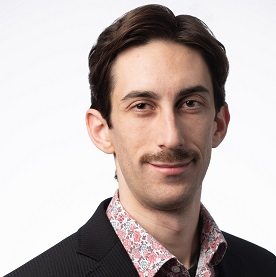
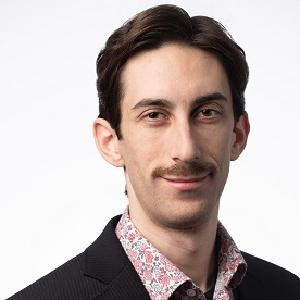
main page, cta, and other things

diff --git a/themes/hugoplate/layouts/index.html b/themes/hugoplate/layouts/index.html
@@ -94,7 +94,7 @@
                     <div class="swiper-slide">
                       <div
                         class="bg-theme-light dark:bg-darkmode-theme-light rounded-lg px-7 py-10">
-                        <div class="text-dark dark:text-white">
+                        {{/*  <div class="text-dark dark:text-white">
                           <svg
                             width="33"
                             height="20"
@@ -108,19 +108,19 @@
                         </div>
                         <blockquote class="mt-8">
                           {{ .content | markdownify }}
-                        </blockquote>
-                        <div class="mt-11 flex items-center">
+                        </blockquote>  */}}
+                        <div class="mt-7 flex items-center">
                           <div class="text-dark dark:text-white">
-                            {{ partial "image" (dict "Src" .avatar "Size" "50x50" "Class" "rounded-full" "Alt" .name) }}
+                            {{ partial "image" (dict "Src" .avatar "Class" "rounded-small" "Alt" .name) }}
                           </div>
-                          <div class="ml-4">
+                          {{/*  <div class="ml-4">
                             <h3 class="h5 font-primary font-semibold">
                               {{ .name }}
                             </h3>
                             <p class="text-dark dark:text-white">
                               {{ .designation | markdownify }}
                             </p>
-                          </div>
+                          </div>  */}}
                         </div>
                       </div>
                     </div>

diff --git a/content/english/_index.md b/content/english/_index.md
@@ -1,8 +1,8 @@
 ---
 # Banner
 banner:
-  title: "Identifying things in spectrum with AI"
-  content: "Hugoplate is a free starter template built with Hugo and TailwindCSS, providing everything you need to jumpstart your Hugo project and save valuable time."
+  title: "Identifying things in wireless spectrum with AI"
+  content: "Lets build intelligent radios together."
   image: "/images/banner.png"
   button:
     enable: true
@@ -11,41 +11,39 @@ banner:
 
 # Features
 features:
-  - title: "What's Included in Hugoplate"
+  - title: "RIA Project"
     image: "/images/service-1.png"
-    content: "Hugoplate is a comprehensive starter template that includes everything you need to get started with your Hugo project. What's Included in Hugoplate"
+    content: "The Radio Intelligence Apps open source project exists to help accelerate the development of intelligent radio technology. The RIA  project contains utlilities for synthesizing, curating, and inspecting datasets of radio signals, example workflows for training high performance machine learning models, and tools for testing them. RIA is coming soon."
     bulletpoints:
-      - "10+ Pre-build pages"
-      - "95+ Google Pagespeed Score"
-      - "Build with Hugo and TailwindCSS for easy and customizable styling"
-      - "Fully responsive on all devices"
-      - "SEO-optimized for better search engine rankings"
-      - "**Open-source and free** for personal and commercial use"
+      - "Supports signal generation in python, GNU Radio and MATLAB"
+      - "Sythesize from SigMF and save to h5"
+      - "Train models with popular off-the-shelf deep learning algorithms."
+      - "**Open-source and free**"
     button:
       enable: false
       label: "Get Started Now"
       link: "#"
 
-  - title: "Discover the Key Features Of Hugo"
+  - title: "RIA"
     image: "/images/service-2.png"
-    content: "Hugo is an all-in-one web framework for building fast, content-focused websites. It offers a range of exciting features for developers and website creators. Some of the key features are:"
+    content: "RIA is an end-to-end development suite for creating and deploying intelligent radio applications to realworld software-defined radio enabled systems. RIA is built on top of the open source RIA project."
     bulletpoints:
-      - "Zero JS, by default: No JavaScript runtime overhead to slow you down."
-      - "Customizable: Tailwind, MDX, and 100+ other integrations to choose from."
-      - "UI-agnostic: Supports React, Preact, Svelte, Vue, Solid, Lit and more."
+      - "Experiment, training, and deployment automation features."
+      - "Interoperable with a selection of DSP and deep learning technologies."
+      - "Enables deployment with leading SDR hardware solutions."
+      - "Includes a library of functions, pre-trained models, model implementations, workflows, and datasets to accelerate prototyping."
     button:
       enable: true
       label: "Get Started Now"
       link: "https://github.com/zeon-studio/hugoplate"
 
-  - title: "The Top Reasons to Choose Hugo for Your Hugo Project"
+  - title: "Intelligent Radio Research"
     image: "/images/service-3.png"
-    content: "With Hugo, you can build modern and content-focused websites without sacrificing performance or ease of use."
+    content: "Qoherent partners on the research of better radio signal processing solutions with machine learning and quantum computing. Qoherent partners with government labs, corporate researchers, and universities to: "
     bulletpoints:
-      - "Instantly load static sites for better user experience and SEO."
-      - "Intuitive syntax and support for popular frameworks make learning and using Hugo a breeze."
-      - "Use any front-end library or framework, or build custom components, for any project size."
-      - "Built on cutting-edge technology to keep your projects up-to-date with the latest web standards."
+      - "Build environment emulators and testbeds."
+      - "Design and experiment on algoritmic solutions for classifying radio signals."
+      - "Systems integration with software-defined radios."
     button:
       enable: false
       label: ""
@@ -65,11 +63,3 @@ features:
   #     link: ""
 ---
 
-
-
-
-\[vc\_row content\_placement="middle" bg\_type="bg\_color" bg\_override="ex-full" type="vc\_default" margin\_top="-50" anchor="about" bg\_color\_value="#f8f8f9" css=".vc\_custom\_1623008743901{padding-top: 40px !important;padding-bottom: 40px !important;}" el\_id="services"\]\[vc\_column\]\[vc\_column\_text\]
-
-We accelerate the pace of **AI signal processing for radio**.
-
-\[/vc\_column\_text\]\[/vc\_column\]\[/vc\_row\]\[vc\_row full\_width="stretch\_row" bg\_type="bg\_color" seperator\_enable="seperator\_enable\_value" seperator\_type="triangle\_svg\_seperator" seperator\_svg\_height="30" seperator\_shape\_background="#f8f8f9" type="vc\_default" margin\_top="85" margin\_bottom="20" css=".vc\_custom\_1633135652166{padding-top: 90px !important;padding-bottom: 60px !important;background-color: #ffffff !important;}" bg\_color\_value="#ffffff"\]\[vc\_column width="1/3"\]\[vc\_row\_inner css=".vc\_custom\_1625110634884{padding-right: 25px !important;padding-bottom: 30px !important;padding-left: 25px !important;}"\]\[vc\_column\_inner width="1/3" css=".vc\_custom\_1630124372688{margin-bottom: 30px !important;padding-top: 0px !important;padding-right: 0px !important;padding-bottom: 0px !important;padding-left: 0px !important;background-position: center !important;background-repeat: no-repeat !important;background-size: cover !important;}" offset="vc\_col-lg-12 vc\_col-md-12"\]\[icon\_counter flip\_type="horizontal\_flip\_right" flip\_box\_style="advanced" icon\_type="custom" icon\_img="id^15065|url^https://www.qoherent.ai/wp-content/uploads/2021/06/design-platform\_white.png|caption^null|alt^null|title^design-platform\_white|description^null" img\_width="48" block\_title\_front="Radio Intelligence Apps" block\_text\_color="#ffffff" block\_front\_color="#03a9f4" block\_desc\_back="Qoherent provides design automation software that produces machine learning models for radio signal processing." block\_back\_text\_color="#ffffff" block\_back\_color="#03a9f4" height\_type="ifb-custom-height" box\_height="320" cont\_align="on" el\_class="accent-icon-color" ult\_param\_heading="" flipbx\_padding="padding:0px;" title\_font\_size="desktop:28px;" title\_font\_line\_height="desktop:36px;" desc\_font\_size="desktop:14px;" desc\_font\_line\_height="desktop:24px;" flipbx\_margin="margin:0px;"\]\[/vc\_column\_inner\]\[/vc\_row\_inner\]\[/vc\_column\]\[vc\_column width="1/3"\]\[vc\_row\_inner css=".vc\_custom\_1478874667086{padding-right: 25px !important;padding-bottom: 30px !important;padding-left: 25px !important;}"\]\[vc\_column\_inner width="1/3" css=".vc\_custom\_1626656052840{margin-bottom: 30px !important;padding-top: 0px !important;padding-right: 0px !important;padding-bottom: 0px !important;padding-left: 0px !important;background-position: center !important;background-repeat: no-repeat !important;background-size: cover !important;}" offset="vc\_col-lg-12 vc\_col-md-12"\]\[icon\_counter flip\_type="horizontal\_flip\_right" flip\_box\_style="advanced" icon\_type="custom" icon\_img="id^15225|url^https://www.qoherent.ai/wp-content/uploads/2021/07/command-window.png|caption^null|alt^null|title^command-window|description^null" img\_width="48" block\_title\_front="ML Ops" block\_text\_color="#ffffff" block\_front\_color="#e63462" block\_desc\_back="Qoherent is building a machine learning development platform inspired by modern DevOps workflows for automating the creation of intelligent radio innovations. Our tools (currently in private beta) help signal processing engineers design & train models and validate model performance in an automated and repeatible manner." block\_back\_text\_color="#ffffff" block\_back\_color="#e63462" height\_type="ifb-custom-height" box\_height="320" cont\_align="on" el\_class="accent-icon-color" flipbx\_padding="padding:0px;" title\_font\_size="desktop:28px;" title\_font\_line\_height="desktop:36px;" desc\_font\_size="desktop:14px;" desc\_font\_line\_height="desktop:24px;" flipbx\_margin="margin:0px;"\]\[/vc\_column\_inner\]\[/vc\_row\_inner\]\[/vc\_column\]\[vc\_column width="1/3"\]\[vc\_row\_inner css=".vc\_custom\_1478874667086{padding-right: 25px !important;padding-bottom: 30px !important;padding-left: 25px !important;}"\]\[vc\_column\_inner width="1/2" css=".vc\_custom\_1631754959172{margin-bottom: 30px !important;padding-top: 0px !important;padding-right: 0px !important;padding-bottom: 0px !important;padding-left: 0px !important;background-position: center !important;background-repeat: no-repeat !important;background-size: cover !important;}" offset="vc\_col-lg-12 vc\_col-md-12"\]\[icon\_counter flip\_type="horizontal\_flip\_right" flip\_box\_style="advanced" icon\_type="custom" icon\_img="id^15228|url^https://www.qoherent.ai/wp-content/uploads/2021/07/deployment\_512.png|caption^null|alt^null|title^deployment\_512|description^null" img\_width="48" block\_title\_front="Intelligent Radio Research" block\_text\_color="#ffffff" block\_front\_color="#884da0" block\_desc\_back="Qoherent partners on the research of better radio signal processing solutions with machine learning and quantum computing." block\_back\_text\_color="#ffffff" block\_back\_color="#884da0" height\_type="ifb-custom-height" box\_height="320" cont\_align="on" el\_class="accent-icon-color" flipbx\_padding="padding:0px;" title\_font\_size="desktop:28px;" title\_font\_line\_height="desktop:36px;" desc\_font\_size="desktop:14px;" desc\_font\_line\_height="desktop:24px;" flipbx\_margin="margin:0px;"\]\[/vc\_column\_inner\]\[/vc\_row\_inner\]\[/vc\_column\]\[/vc\_row\]\[vc\_row bg\_type="bg\_color" bg\_override="full" bg\_color\_value="#f8f9f9"\]\[vc\_column\]\[ultimate\_heading main\_heading="Supported By" sub\_heading\_color="#adb0b6" main\_heading\_font\_size="desktop:25px;mobile\_landscape:14px;" main\_heading\_line\_height="desktop:35px;mobile\_landscape:24px;" sub\_heading\_font\_size="desktop:26px;mobile\_landscape:20px;" sub\_heading\_line\_height="desktop:36px;mobile\_landscape:30px;" main\_heading\_margin="margin-bottom:25px;" sub\_heading\_margin="margin-bottom:5px;" main\_heading\_font\_family="font\_family:|font\_call:" sub\_heading\_font\_family="font\_family:|font\_call:"\]\[/ultimate\_heading\]\[ultimate\_carousel slide\_to\_scroll="single" slides\_on\_desk="4" speed="1500" dots="off" item\_space="10"\]\[vc\_single\_image image="15159" img\_size="202x70" alignment="center" lazy\_loading="true" css=".vc\_custom\_1630124164243{margin-top: 10px !important;}"\]\[vc\_single\_image image="15155" img\_size="202x70" alignment="center" lazy\_loading="true" css=".vc\_custom\_1630124203313{margin-top: 10px !important;}"\]\[vc\_single\_image image="15152" img\_size="202x70" alignment="center" lazy\_loading="true" css=".vc\_custom\_1630124209290{margin-top: 10px !important;}"\]\[vc\_single\_image image="15156" img\_size="202x70" alignment="center" lazy\_loading="true" css=".vc\_custom\_1630124215947{margin-top: 10px !important;}"\]\[vc\_single\_image image="15160" img\_size="202x70" alignment="center" lazy\_loading="true" css=".vc\_custom\_1630124222177{margin-top: 10px !important;}"\]\[vc\_single\_image image="15452"\]\[/ultimate\_carousel\]\[/vc\_column\]\[/vc\_row\]

diff --git a/content/english/sections/testimonial.md b/content/english/sections/testimonial.md
@@ -1,29 +1,46 @@
 ---
 enable: true
-title: "What Users Are Saying About Hugoplate"
-description: "Don't just take our word for it - hear from some of our satisfied users!  Check out some of our testimonials below to see what others are saying about Hugoplate."
+title: "Ecosystem, Support, and Partners:"
+description: ""
 
 # Testimonials
 testimonials:
-  - name: "Marvin McKinney"
-    designation: "Web Designer"
-    avatar: "/images/avatar-sm.png"
-    content: "Lorem ipsum dolor sit amet consectetur adipisicing elit. Qui iusto illo molestias, assumenda expedita commodi inventore non itaque molestiae voluptatum dolore, facilis sapiente, repellat veniam."
+  - avatar: "/images/iqengine.png"
+    # name: "ESA"
+  - avatar: "/images/yspace.png"
+    # name: "YSpace @ York University"
+  - avatar: "/images/csa.png"
+    # name: "CSA"
+  - avatar: "/images/esa.png"
+    # name: "ESA"
+  - avatar: "/images/creativedestructionlab.png"
+    # name: "Creative Destruction Lab"
+  - avatar: "/images/schulichstartups.png"
+    # name: "Schulich Startups"
+  - avatar: "/images/venturelab.png"
+    # name: "VentureLab"
+  - avatar: "/images/startupfest.png"
+    # name: "Startupfest"
+  - avatar: "/images/oci.png"
+    # name: "Oci"
+  # - avatar: "/images/ucalgary.png"
+  #   # name: "ESA"
+  # - avatar: "/images/ettus.png"
+  #   # name: "ESA"
+  # - avatar: "/images/neu.png"
+  #   # name: "ESA"
+  # - avatar: "/images/gnuradio.png"
+  #   # name: "ESA"
 
-  - name: "Marvin McKinney"
-    designation: "Web Designer"
-    avatar: "/images/avatar-sm.png"
-    content: "Lorem ipsum dolor sit amet consectetur adipisicing elit. Qui iusto illo molestias, assumenda expedita commodi inventore non itaque molestiae voluptatum dolore, facilis sapiente, repellat veniam."
+  # - name: "Marvin McKinney"
+  #   designation: "Web Designer"
+  #   avatar: "/images/avatar-sm.png"
+  #   content: "Lorem ipsum dolor sit amet consectetur adipisicing elit. Qui iusto illo molestias, assumenda expedita commodi inventore non itaque molestiae voluptatum dolore, facilis sapiente, repellat veniam."
 
-  - name: "Marvin McKinney"
-    designation: "Web Designer"
-    avatar: "/images/avatar-sm.png"
-    content: "Lorem ipsum dolor sit amet consectetur adipisicing elit. Qui iusto illo molestias, assumenda expedita commodi inventore non itaque molestiae voluptatum dolore, facilis sapiente, repellat veniam."
-
-  - name: "Marvin McKinney"
-    designation: "Web Designer"
-    avatar: "/images/avatar-sm.png"
-    content: "Lorem ipsum dolor sit amet consectetur adipisicing elit. Qui iusto illo molestias, assumenda expedita commodi inventore non itaque molestiae voluptatum dolore, facilis sapiente, repellat veniam."
+  # - name: "Marvin McKinney"
+  #   designation: "Web Designer"
+  #   avatar: "/images/avatar-sm.png"
+  #   content: "Lorem ipsum dolor sit amet consectetur adipisicing elit. Qui iusto illo molestias, assumenda expedita commodi inventore non itaque molestiae voluptatum dolore, facilis sapiente, repellat veniam."
 
 # don't create a separate page
 _build:

diff --git a/content/english/pages/careers.md b/content/english/pages/careers.md
@@ -10,12 +10,10 @@ draft: false
 <!-- ![](images/team.jpg) -->
 
 
-Qoherent provides its staff with the opportunity to build something great as part of a team. We offer a flexible work environment, continued learning opportunities, and potential for career growth.
+Qoherent provides its staff with the opportunity to build something great as part of a multidisciplinary team. We offer a flexible work environment, continued learning opportunities, and potential for career growth.
 
-We are always looking to meet those who are eager to join in our mission to build better intelligent radio technology. We are open to networking with new candidates, even when we don't have a posting available. If you are interested in a discussion, please contact us at info at qoherent dot ai
+We are always looking to meet those who are eager to join in our mission to build better intelligent radio technology. We are open to networking with new candidates, even when we don't have a posting available. If you are interested in a discussion, please contact us at info at qoherent dot ai or via LinkedIn.
 
 Active postings for full-time or contract positions can be found here or on our LinkedIn page.
 
-We also occasionally offer Co-op postings to qualified Canadian university or college students from accredited engineering, computer science, or physics programs, including graduate students.
-
-Postings can be found at your school's career centre, but we also encourage students to reach out to us via email directly.
+We also occasionally offer Co-op postings to qualified Canadian university or college students from accredited engineering, computer science, or physics programs, including graduate students. Postings can be found at your school's career centre, but we also encourage students to reach out to us via email directly.

diff --git a/content/english/pages/downloads.md b/content/english/pages/downloads.md
@@ -1,7 +1,7 @@
 ---
 title: "Downloads"
-meta_title: "Custom RF Dataset Development"
-description: "Custom RF Dataset Development"
+meta_title: "Sample RF Datasets and Recordings."
+description: "Sample RF Datasets and Recordings."
 image: "/images/5g.png"
 draft: false
 
@@ -9,18 +9,18 @@ draft: false
 ---
 
 <!-- ## Custom RF Datasets for Model Training -->
-Short description
 
 
 {{< notice "note" >}}
 **License**
 
-The following downloads are made availible under GPLv3. Qoherent can make an alternative license license availible for variants of the dataset (propietary or open), for more information please contact us.
+The following downloads are made available under GPLv3. Qoherent can make an alternative license available for variants of the dataset (proprietary or open), for more information please contact us.
+
 {{< /notice >}}
 
 ### Utility for inspection and review:
 - IQ Engine Link
-- {}
+- RIA Dataset and Recording inspector (coming soon!)
 
 
 ### Synthetic Recordings (sigMF)

diff --git a/content/english/sections/call-to-action.md b/content/english/sections/call-to-action.md
@@ -1,12 +1,12 @@
 ---
 enable: true
-title: "Ready to build your next project with Hugo?"
+title: "Sign up for the RIA Project Beta"
 image: "/images/call-to-action.png"
-description: "Experience the future of web development with Hugoplate and Hugo. Build lightning-fast static sites with ease and flexibility."
+description: "Click the button below to request participation in the Radio Intelligence Apps (RIA) Early Access Program. Using the compressive set of tools within RIA, you can create datasets of recorded and synthesized baseband signals, build robust machine learning models, and test them to ensure they are deployment ready.."
 button:
   enable: true
-  label: "Get Started Now"
-  link: "https://github.com/zeon-studio/hugoplate"
+  label: "Request Early Access"
+  link: "https://docs.google.com/forms/d/1m4XrPbfuVDokKx6eJg8-nYIgwodWLAmrods-zsExe0U"
 
 # don't create a separate page
 _build:

diff --git a/content/english/contact/_index.md b/content/english/contact/_index.md
@@ -6,13 +6,14 @@ draft: false
 ---
 
 
-🏤 Qoherent 111 Queen St. East - Suite 210, Toronto, ON, Canada, Canada M5G 1S1
 
-📬 Qoherent @ YSpace - 169 Enterprise Blvd. Suite 300 Markham, ON, Canada L6G 0E7
+|   |   📶       |       Contact Us      |
+|:-:| -------------: | :-----------: |
+|   | 🏤      | 111 Queen St. East - Suite 210, Toronto, ON, Canada, Canada M5G 1S1 | 
+|   | 📬      |   Qoherent @ YSpace - 169 Enterprise Blvd. Suite 300 Markham, ON, Canada L6G 0E7    |   
+|   | ✉ |   info at qoherent dot ai    |   
 
-✉ info at qoherent dot ai
 
-Please fill out this form for **business inquiries**. 
 
-For **technical support**, please contact your Qoherent support representative directly.
+Please fill out this form for **business inquiries**. _For technical support, please contact your Qoherent support representative directly._
 

diff --git a/content/english/team/lorne-swersky.md b/content/english/team/lorne-swersky.md
@@ -5,15 +5,15 @@ description: ML R&D Manager
 social:
   - name: github
     icon: fa-brands fa-github
-    link: https://github.com
+    link: https://github.com/lswersk
 
-  - name: twitter
-    icon: fa-brands fa-twitter
-    link: https://twitter.com
+  # - name: twitter
+  #   icon: fa-brands fa-twitter
+  #   link: https://twitter.com
 
   - name: linkedin
     icon: fa-brands fa-linkedin
-    link: https://linkedin.com
+    link: https://www.linkedin.com/in/lorne-swersky-31a729183/?originalSubdomain=ca
 ---
 
-lorem ipsum dolor sit amet, consectetur adipiscing elit, sed do eiusmod tempor incididunt ut labore et dolore magna aliqua. Ut enim ad minim veniam, quis nostr navigation et dolore magna aliqua.
+ ML R&D Manager

diff --git a/content/english/pages/company.md b/content/english/pages/company.md
@@ -9,7 +9,7 @@ draft: false
 ---
 
 
-> _Our mission is to drive the creation intelligent radio technology._
+> **Our mission**:  _Drive the creation intelligent radio._
 
 Qoherent ™ is a technology company that specializes in AI development for software-defined radios, focusing on streamlining the workflow for radio signal processing engineers and researchers in wireless technologies with software and IP products. Intelligent radios integrate machine learning-based signal processing to build more robust, aware, and adaptive radiofrequency (RF) communications and sensing systems that generally out perform traditional radio systems.
 

diff --git a/content/english/team/adrian-kaczmarczyk.md b/content/english/team/adrian-kaczmarczyk.md
@@ -7,13 +7,13 @@ social:
   #   icon: fa-brands fa-github
   #   link: https://github.com
 
-  - name: twitter
-    icon: fa-brands fa-twitter
-    link: https://twitter.com
+  # - name: twitter
+  #   icon: fa-brands fa-twitter
+  #   link: https://twitter.com
 
   - name: linkedin
     icon: fa-brands fa-linkedin
-    link: https://linkedin.com
+    link: https://www.linkedin.com/in/adrian-kaczmarczyk-50a609133/
 ---
 
-lorem ipsum dolor sit amet, consectetur adipiscing elit, sed do eiusmod tempor incididunt ut labore et dolore magna aliqua. Ut enim ad minim veniam, quis nostr navigation et dolore magna aliqua.
+Radio R&D Manager

diff --git a/content/english/team/ash-beigi.md b/content/english/team/ash-beigi.md
@@ -16,4 +16,6 @@ social:
     link: https://linkedin.com/in/ashkanbeigi
 ---
 
-lorem ipsum dolor sit amet, consectetur adipiscing elit, sed do eiusmod tempor incididunt ut labore et dolore magna aliqua. Ut enim ad minim veniam, quis nostr navigation et dolore magna aliqua.
+<!-- lorem ipsum dolor sit amet, consectetur adipiscing elit, sed do eiusmod tempor incididunt ut labore et dolore magna aliqua. Ut enim ad minim veniam, quis nostr navigation et dolore magna aliqua. -->
+
+Founder & CEO
